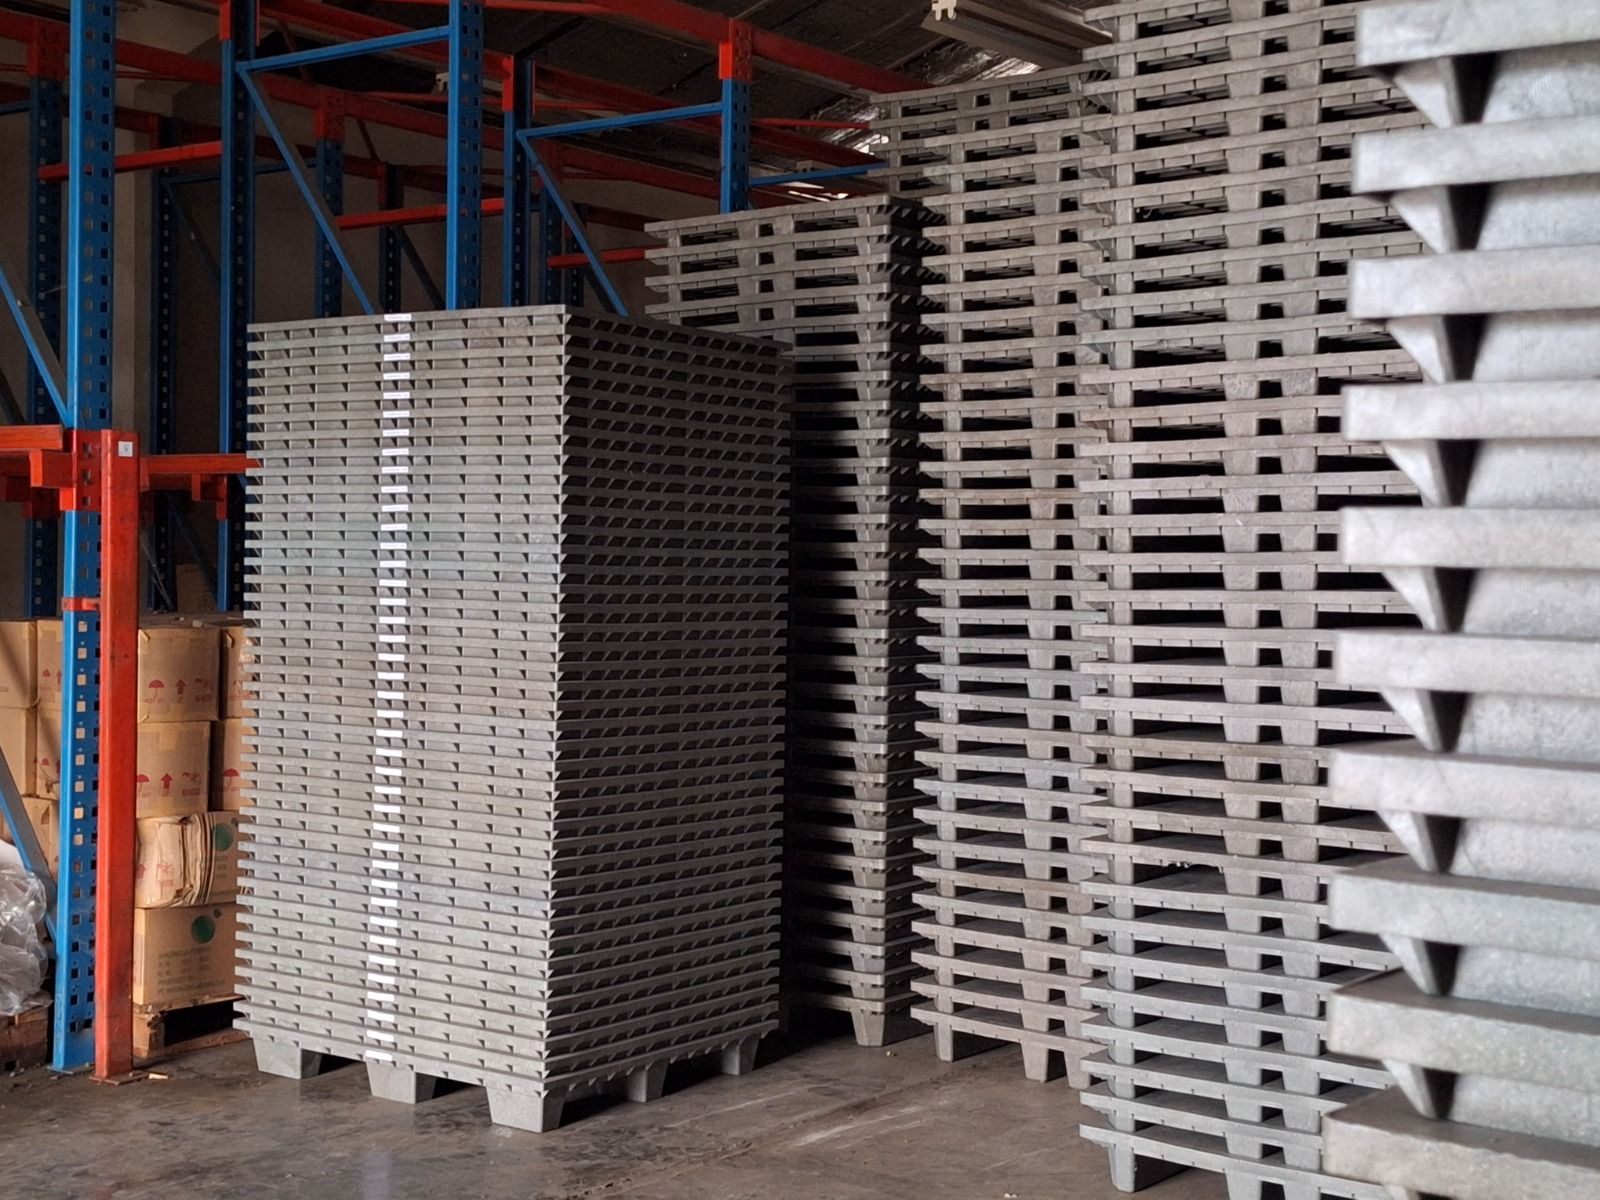
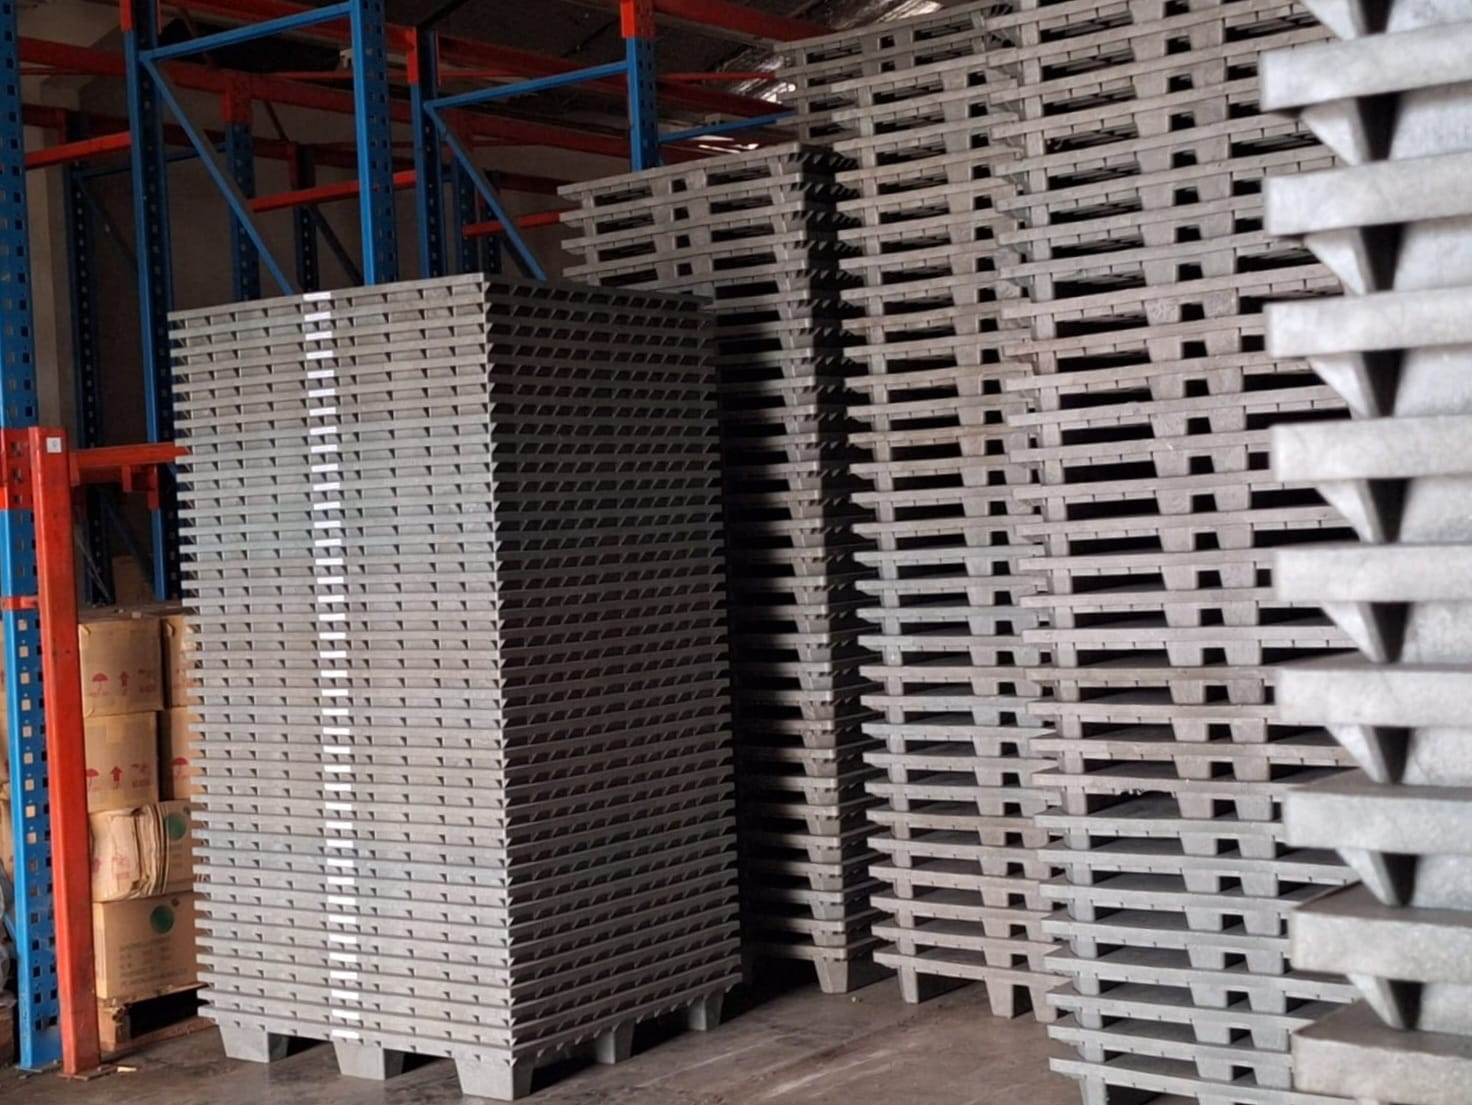
Update Kontak Kami section layout with 2-column grid and benefit-style divider lines

diff --git a/src/index.css b/src/index.css
@@ -83,59 +83,74 @@ dd { font-weight: 600; }
 .gallery-slider-caption { align-items: center; border-top: 1px solid #bfc1b8; display: flex; gap: 24px; justify-content: space-between; margin-top: 20px; padding-top: 16px; }
 .slider-caption-num { color: var(--ink); font-family: 'Manrope', monospace; font-size: 13px; font-weight: 700; letter-spacing: .08em; }
 .slider-caption-note { color: var(--muted); font-size: 13px; }
-.contact { background: #242b24; color: white; padding: 110px 4vw 48px; }
-.contact h2 { max-width: 820px; }
-.lime-button { background: var(--lime); color: var(--ink); margin-top: 46px; min-width: 210px; }
-.contact-details {
-  align-items: stretch;
-  border-top: 1px solid #4a504a;
-  display: flex;
-  flex-direction: row;
-  gap: 40px;
-  justify-content: space-between;
-  margin-top: 100px;
-  min-height: 150px;
-  padding-top: 28px;
-  width: 100%;
+.contact {
+  background: #242b24;
+  color: white;
+  display: grid;
+  gap: 8vw;
+  grid-template-columns: .8fr 1.2fr;
+  padding: 120px 4vw 80px;
 }
-.contact-locations {
+.contact-heading-group {
   display: flex;
-  flex: 1;
   flex-direction: column;
-  gap: 24px;
-  justify-content: center;
-  min-width: 0;
+}
+.contact-heading-group h2 {
+  font-size: clamp(44px, 5vw, 72px);
+  max-width: 520px;
 }
 .contact-qr-wrapper {
-  align-items: center;
-  align-self: stretch;
+  align-items: flex-start;
   display: flex;
   flex-direction: column;
-  flex-shrink: 0;
-  gap: 10px;
-  justify-content: center;
+  gap: 12px;
+  margin-top: 40px;
+  width: fit-content;
 }
 .contact-qr-img {
   border-radius: 8px;
   box-shadow: 0 8px 24px rgba(0, 0, 0, 0.35);
   display: block;
-  height: 100%;
-  max-height: 140px;
-  object-fit: contain;
-  width: auto;
+  height: auto;
+  max-width: 170px;
+  width: 100%;
 }
 .contact-qr-caption {
   color: #929992;
-  font-size: 12px;
+  font-size: 13px;
   font-weight: 500;
   letter-spacing: 0.02em;
   margin: 0;
-  text-align: center;
-  white-space: nowrap;
+  text-align: left;
 }
-.location-item { display: flex; flex-direction: column; }
-.location-item span { color: #929992; display: block; font-size: 10px; font-weight: 600; letter-spacing: .12em; margin-bottom: 8px; text-transform: uppercase; }
-.location-item p { color: #f2f1eb; font-size: 14px; line-height: 1.55; margin: 0; }
+.contact-locations {
+  display: flex;
+  flex-direction: column;
+}
+.location-item {
+  border-top: 1px solid #4a504a;
+  display: flex;
+  flex-direction: column;
+  padding: 26px 0 36px;
+}
+.location-item:last-child {
+  border-bottom: 1px solid #4a504a;
+}
+.location-item span {
+  color: #929992;
+  display: block;
+  font-size: 11px;
+  font-weight: 600;
+  letter-spacing: .12em;
+  margin-bottom: 8px;
+  text-transform: uppercase;
+}
+.location-item p {
+  color: #f2f1eb;
+  font-size: 15px;
+  line-height: 1.55;
+  margin: 0;
+}
 footer { align-items: center; background: var(--ink); color: #8e958e; display: flex; font-size: 14px; justify-content: space-between; padding: 28px 4vw; }
 .footer-brand { color: white; }
 
@@ -164,26 +179,16 @@ footer { align-items: center; background: var(--ink); color: #8e958e; display: f
   .slider-nav-btn { height: 38px; width: 38px; }
   .slider-overlay-nav { padding: 0 14px; }
   .slider-progress-bar { bottom: 12px; left: 14px; right: 14px; }
-  .contact-details {
-    flex-direction: column;
-    gap: 32px;
-    width: 100%;
+  .contact {
+    gap: 48px;
+    grid-template-columns: 1fr;
+    padding: 80px 5vw;
   }
   .contact-qr-wrapper {
-    align-items: flex-start;
-    align-self: flex-start;
-    gap: 8px;
-    height: auto;
-    justify-content: flex-start;
+    margin-top: 24px;
   }
-  .contact-qr-img {
-    height: 150px;
-    max-height: 150px;
-    max-width: 150px;
-    width: auto;
-  }
-  .contact-qr-caption {
-    text-align: left;
+  .location-item {
+    padding: 22px 0 28px;
   }
   footer { align-items: flex-start; flex-direction: column; gap: 22px; }
 }

diff --git a/src/App.tsx b/src/App.tsx
@@ -325,22 +325,22 @@ export default function App() {
 
       <section className="contact" id="kontak">
         {/* <p className="eyebrow light">Indonesia · International</p> */}
-        <h2>Kontak Kami</h2>
-        <a className="button lime-button" href="mailto:beny@raib-pallets.com?subject=Pemesanan%20/%20Pertanyaan%20Pallet%20RAIB">Pesan atau Tanya Sekarang <Arrow /></a>
-        <div className="contact-details">
-          <div className="contact-locations">
-            <div className="location-item">
-              <span>Kantor &amp; Pabrik</span>
-              <p>Jl. Imam Bonjol No. 265 Km.3, Karawaci, Tangerang</p>
-            </div>
-            <div className="location-item">
-              <span>Gudang</span>
-              <p>Sempor, Candi Binangun, Sukorejo, Pasuruan</p>
-            </div>
-          </div>
+        <div className="contact-heading-group">
+          <h2>Kontak Kami</h2>
           <div className="contact-qr-wrapper">
             <img src="/wa-code.jpeg" alt="WhatsApp RAIB Pallets" className="contact-qr-img" />
-            <p className="contact-qr-caption">Pindai Kode QR WhatsApp Kami</p>
+            <p className="contact-qr-caption">Kode QR untuk Pemesanan</p>
+          </div>
+        </div>
+
+        <div className="contact-locations">
+          <div className="location-item">
+            <span>Kantor &amp; Pabrik</span>
+            <p>Jl. Imam Bonjol No. 265 Km.3, Karawaci, Tangerang</p>
+          </div>
+          <div className="location-item">
+            <span>Gudang</span>
+            <p>Sempor, Candi Binangun, Sukorejo, Pasuruan</p>
           </div>
         </div>
       </section>
